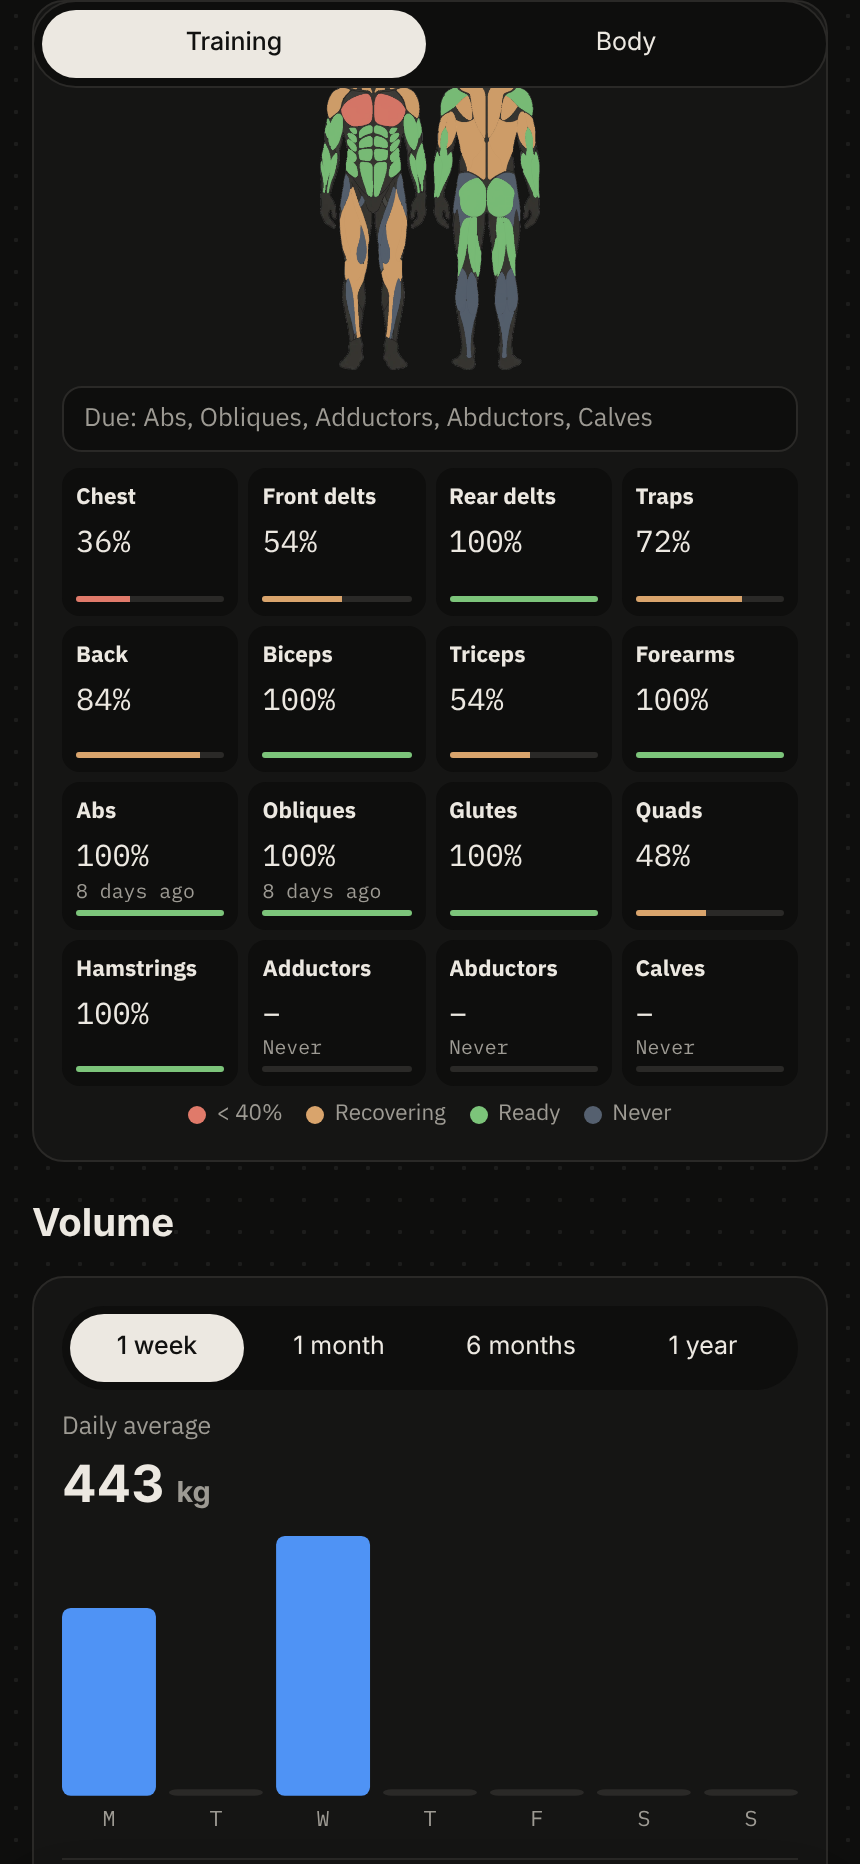
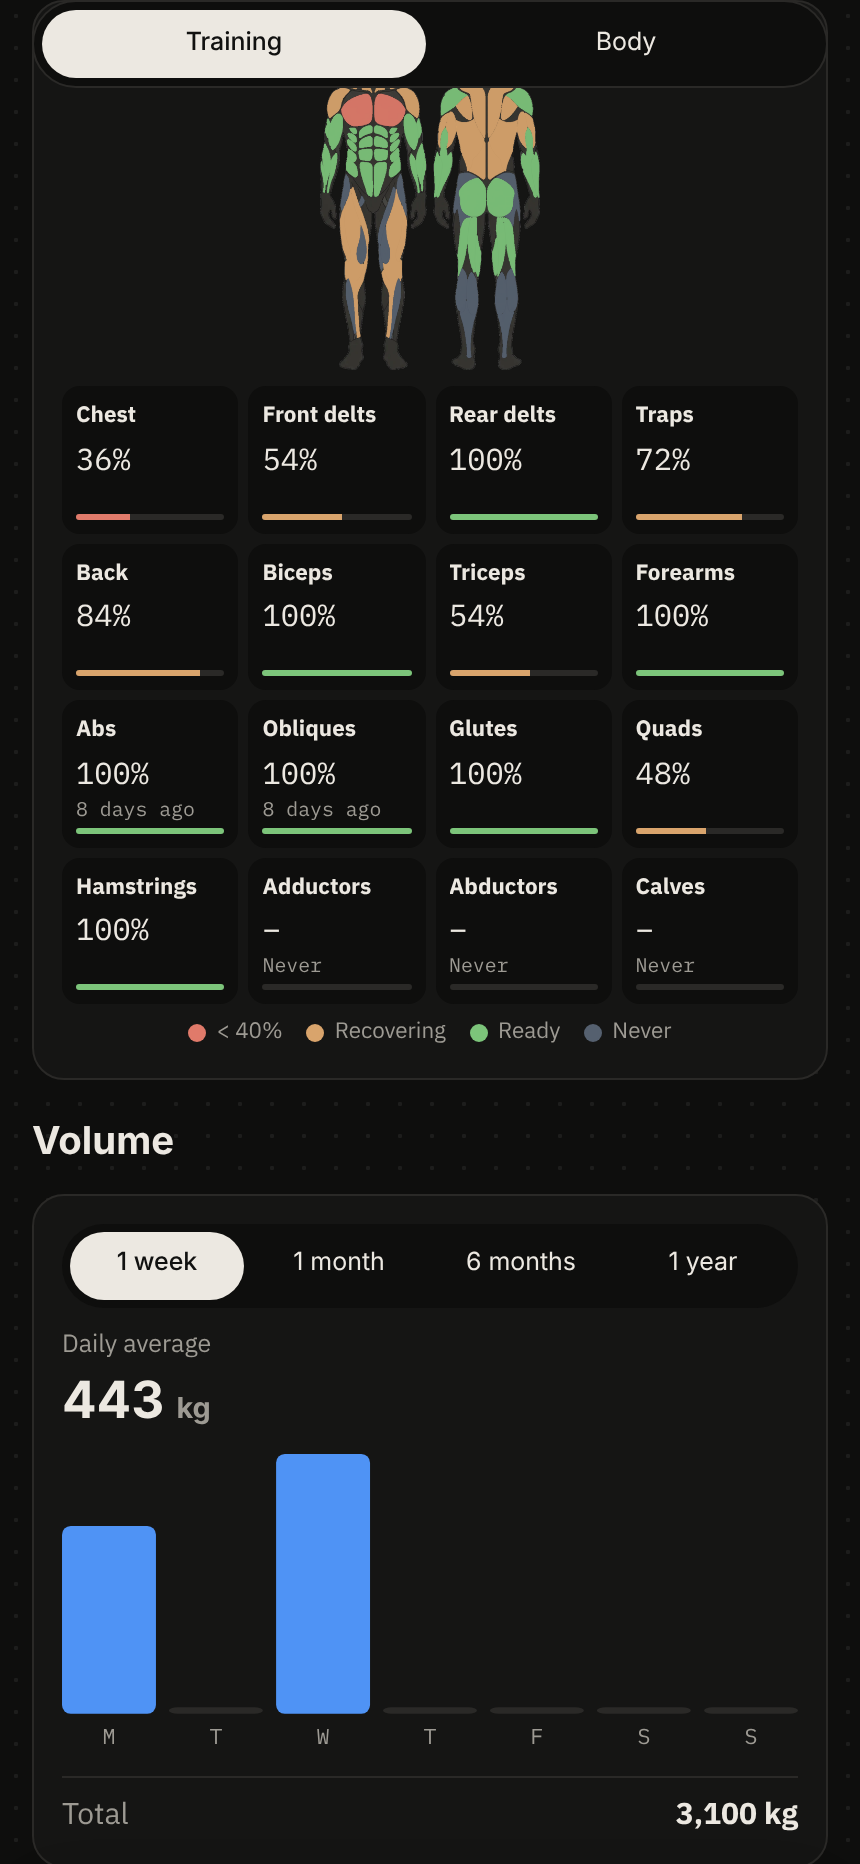
Recovery: remove the Due box (tiles already say it)
Claude-Session: https://claude.ai/code/session_01TA1QFkMVywvGJMZnY2b9UN

diff --git a/public/index.html b/public/index.html
@@ -8,11 +8,11 @@
 <meta name="apple-mobile-web-app-status-bar-style" content="black-translucent">
 <meta name="apple-mobile-web-app-title" content="Fuel & Lift">
 <link rel="manifest" href="/manifest.webmanifest">
-<link rel="apple-touch-icon" href="/apple-touch-icon.png?v=071100">
+<link rel="apple-touch-icon" href="/apple-touch-icon.png?v=071200">
 <title>Fuel &amp; Lift Log</title>
 <link rel="stylesheet" href="https://fonts.googleapis.com/css2?family=IBM+Plex+Sans+Thai:wght@400;500;700&family=IBM+Plex+Mono:wght@400;500&family=Noto+Serif+Thai:wght@400;500&display=swap">
 <style>:root{padding-top:env(safe-area-inset-top,0px);padding-bottom:env(safe-area-inset-bottom,0px)}*{-webkit-tap-highlight-color:transparent}body{margin:0;font-size:14px;font-family:system-ui,sans-serif}img{max-width:100%}[hidden]{display:none!important}</style>
-<link rel="stylesheet" href="/css/app.css?v=071100">
+<link rel="stylesheet" href="/css/app.css?v=071200">
 </head><body>
 
 <div class="wrap">
@@ -235,28 +235,28 @@
   </div>
 </div>
 
-<script src="/js/core.js?v=071100"></script>
-<script src="/js/food.js?v=071100"></script>
-<script src="/js/locations.js?v=071100"></script>
-<script src="/js/programs.js?v=071100"></script>
-<script src="/js/run.js?v=071100"></script>
-<script src="/js/workout.js?v=071100"></script>
-<script src="/js/exercise-edit.js?v=071100"></script>
-<script src="/js/exercise-library.js?v=071100"></script>
-<script src="/js/program-manager.js?v=071100"></script>
-<script src="/js/hero.js?v=071100"></script>
-<script src="/js/rest-timer.js?v=071100"></script>
-<script src="/js/auth.js?v=071100"></script>
-<script src="/js/push.js?v=071100"></script>
-<script src="/js/data-io.js?v=071100"></script>
-<script src="/js/sync.js?v=071100"></script>
-<script src="/js/muscle-map.js?v=071100"></script>
-<script src="/js/progress.js?v=071100"></script>
-<script src="/js/history-chart.js?v=071100"></script>
-<script src="/js/stats-extra.js?v=071100"></script>
-<script src="/js/share-card.js?v=071100"></script>
-<script src="/js/number-pad.js?v=071100"></script>
-<script src="/js/refresh.js?v=071100"></script>
-<script src="/js/app.js?v=071100"></script>
+<script src="/js/core.js?v=071200"></script>
+<script src="/js/food.js?v=071200"></script>
+<script src="/js/locations.js?v=071200"></script>
+<script src="/js/programs.js?v=071200"></script>
+<script src="/js/run.js?v=071200"></script>
+<script src="/js/workout.js?v=071200"></script>
+<script src="/js/exercise-edit.js?v=071200"></script>
+<script src="/js/exercise-library.js?v=071200"></script>
+<script src="/js/program-manager.js?v=071200"></script>
+<script src="/js/hero.js?v=071200"></script>
+<script src="/js/rest-timer.js?v=071200"></script>
+<script src="/js/auth.js?v=071200"></script>
+<script src="/js/push.js?v=071200"></script>
+<script src="/js/data-io.js?v=071200"></script>
+<script src="/js/sync.js?v=071200"></script>
+<script src="/js/muscle-map.js?v=071200"></script>
+<script src="/js/progress.js?v=071200"></script>
+<script src="/js/history-chart.js?v=071200"></script>
+<script src="/js/stats-extra.js?v=071200"></script>
+<script src="/js/share-card.js?v=071200"></script>
+<script src="/js/number-pad.js?v=071200"></script>
+<script src="/js/refresh.js?v=071200"></script>
+<script src="/js/app.js?v=071200"></script>
 
 </body></html>

diff --git a/public/js/stats-extra.js b/public/js/stats-extra.js
@@ -69,7 +69,6 @@ function renderRecovery(){const box=document.getElementById("rec-card");if(!box)
   const due=REC_ORDER.filter(m=>{const s=state(ago(m));return s===0||s===4});
   const tiles=REC_ORDER.map(m=>{const o=R[m],s=state(o),w=!o?0:s===4?100:o.pct;return `<button class="rec-t s${s}" data-m="${m}"><b>${t(MUS_NAME[m])}</b><span class="rec-p">${lab(m)}</span><small class="rec-sub">${sub(m)||"&nbsp;"}</small><i class="rec-bar"><i style="width:${w}%;background:${REC_C[s]}"></i></i></button>`}).join("");
   box.innerHTML=`<div class="rec-fig">${bodySVG([],[],170,m=>REC_C[state(ago(m))])}</div>
-    ${due.length?`<div class="rec-due">${t("ควรเล่น")}: ${due.map(m=>t(MUS_NAME[m])).join(", ")}</div>`:""}
     <div class="rec-grid">${tiles}</div>
     <div class="rec-leg">${[[1,"< 40%"],[2,"กำลังฟื้น"],[3,"พร้อม"],[0,"ยังไม่เคยเล่น"]].map(([k,l])=>`<span><i style="background:${REC_C[k]}"></i>${t(l)}</span>`).join("")}</div>`}
 /* ---------- generic bottom sheet ---------- */

diff --git a/docs/work/2026-11-20-rec-no-purple/plan.md b/docs/work/2026-11-20-rec-no-purple/plan.md
@@ -2,3 +2,4 @@
 - ละเลย (>7 วัน) ใช้สีเขียวเหมือนพร้อม ทั้งแถบ รูปกล้าม และแผ่นกล้าม; ข้อความ "N วันก่อน" คงเดิม
 - เอาขอบม่วงของช่อง ละเลย/ยังไม่เคย และกล่อง "ควรเล่น" สีม่วง ออก, ตัด "ละเลย" จาก legend
 - bump ?v=, npm test
+- เอากล่อง "ควรเล่น" ออก (ซ้ำกับบรรทัดเล็กในแต่ละช่อง)
